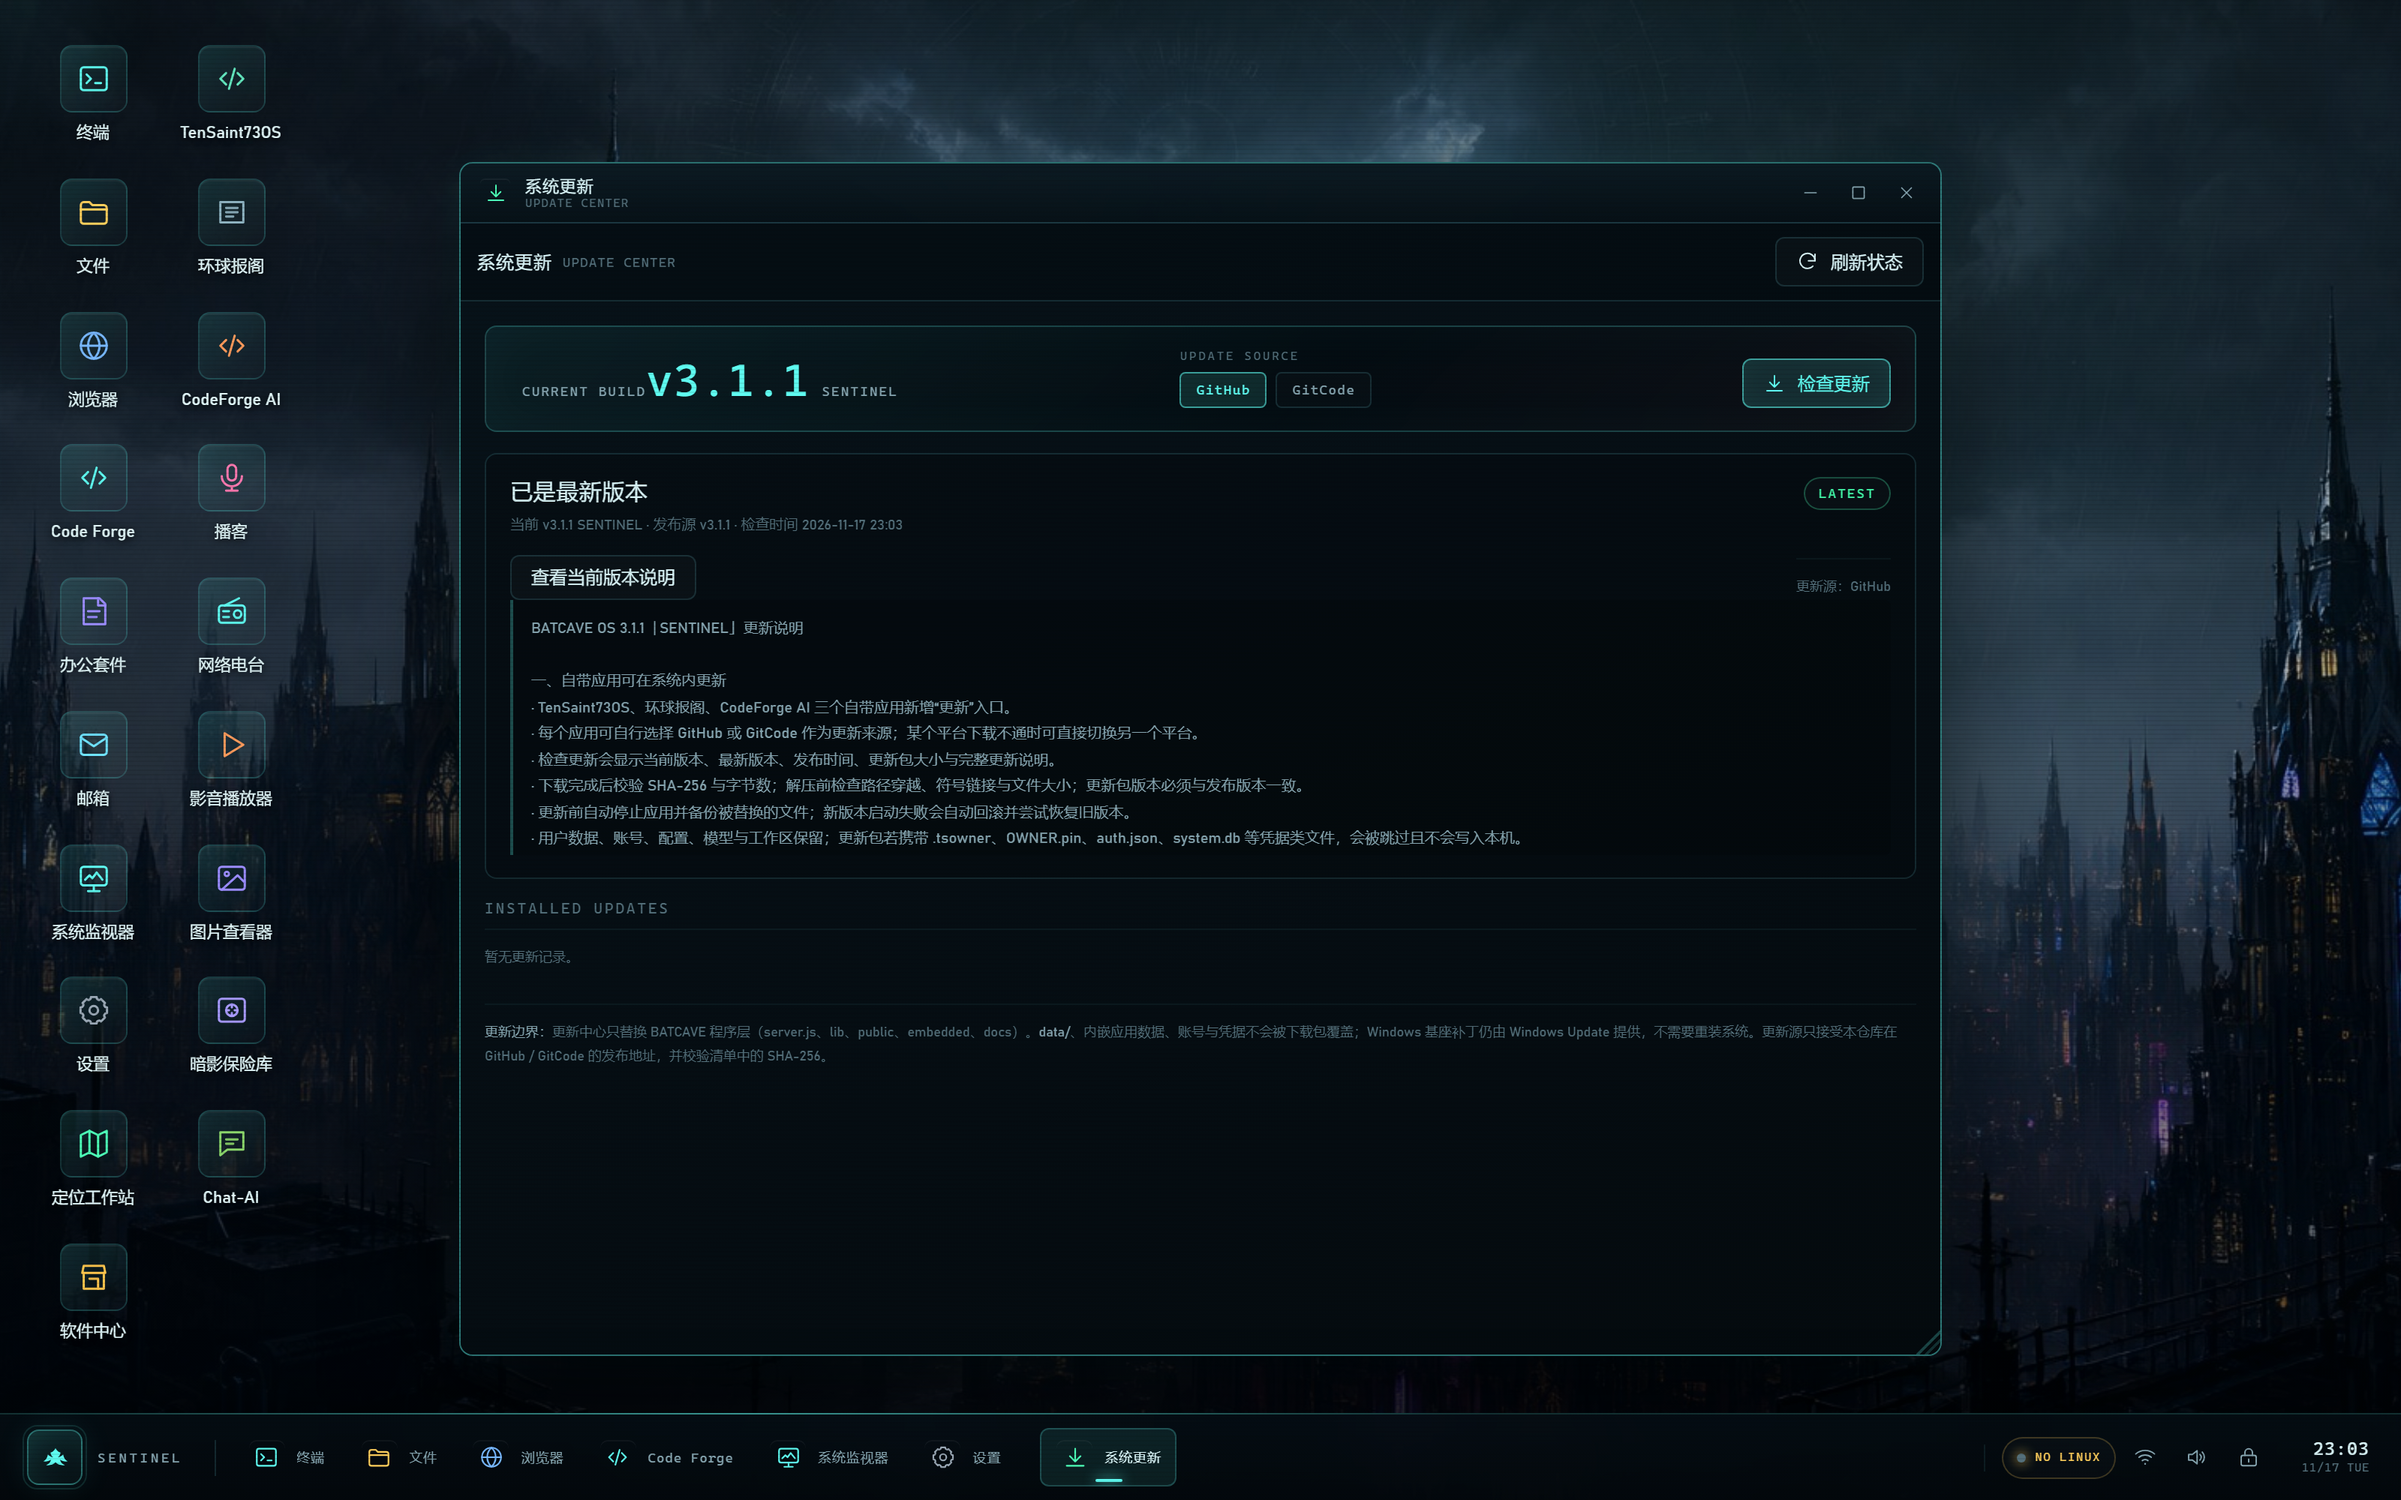
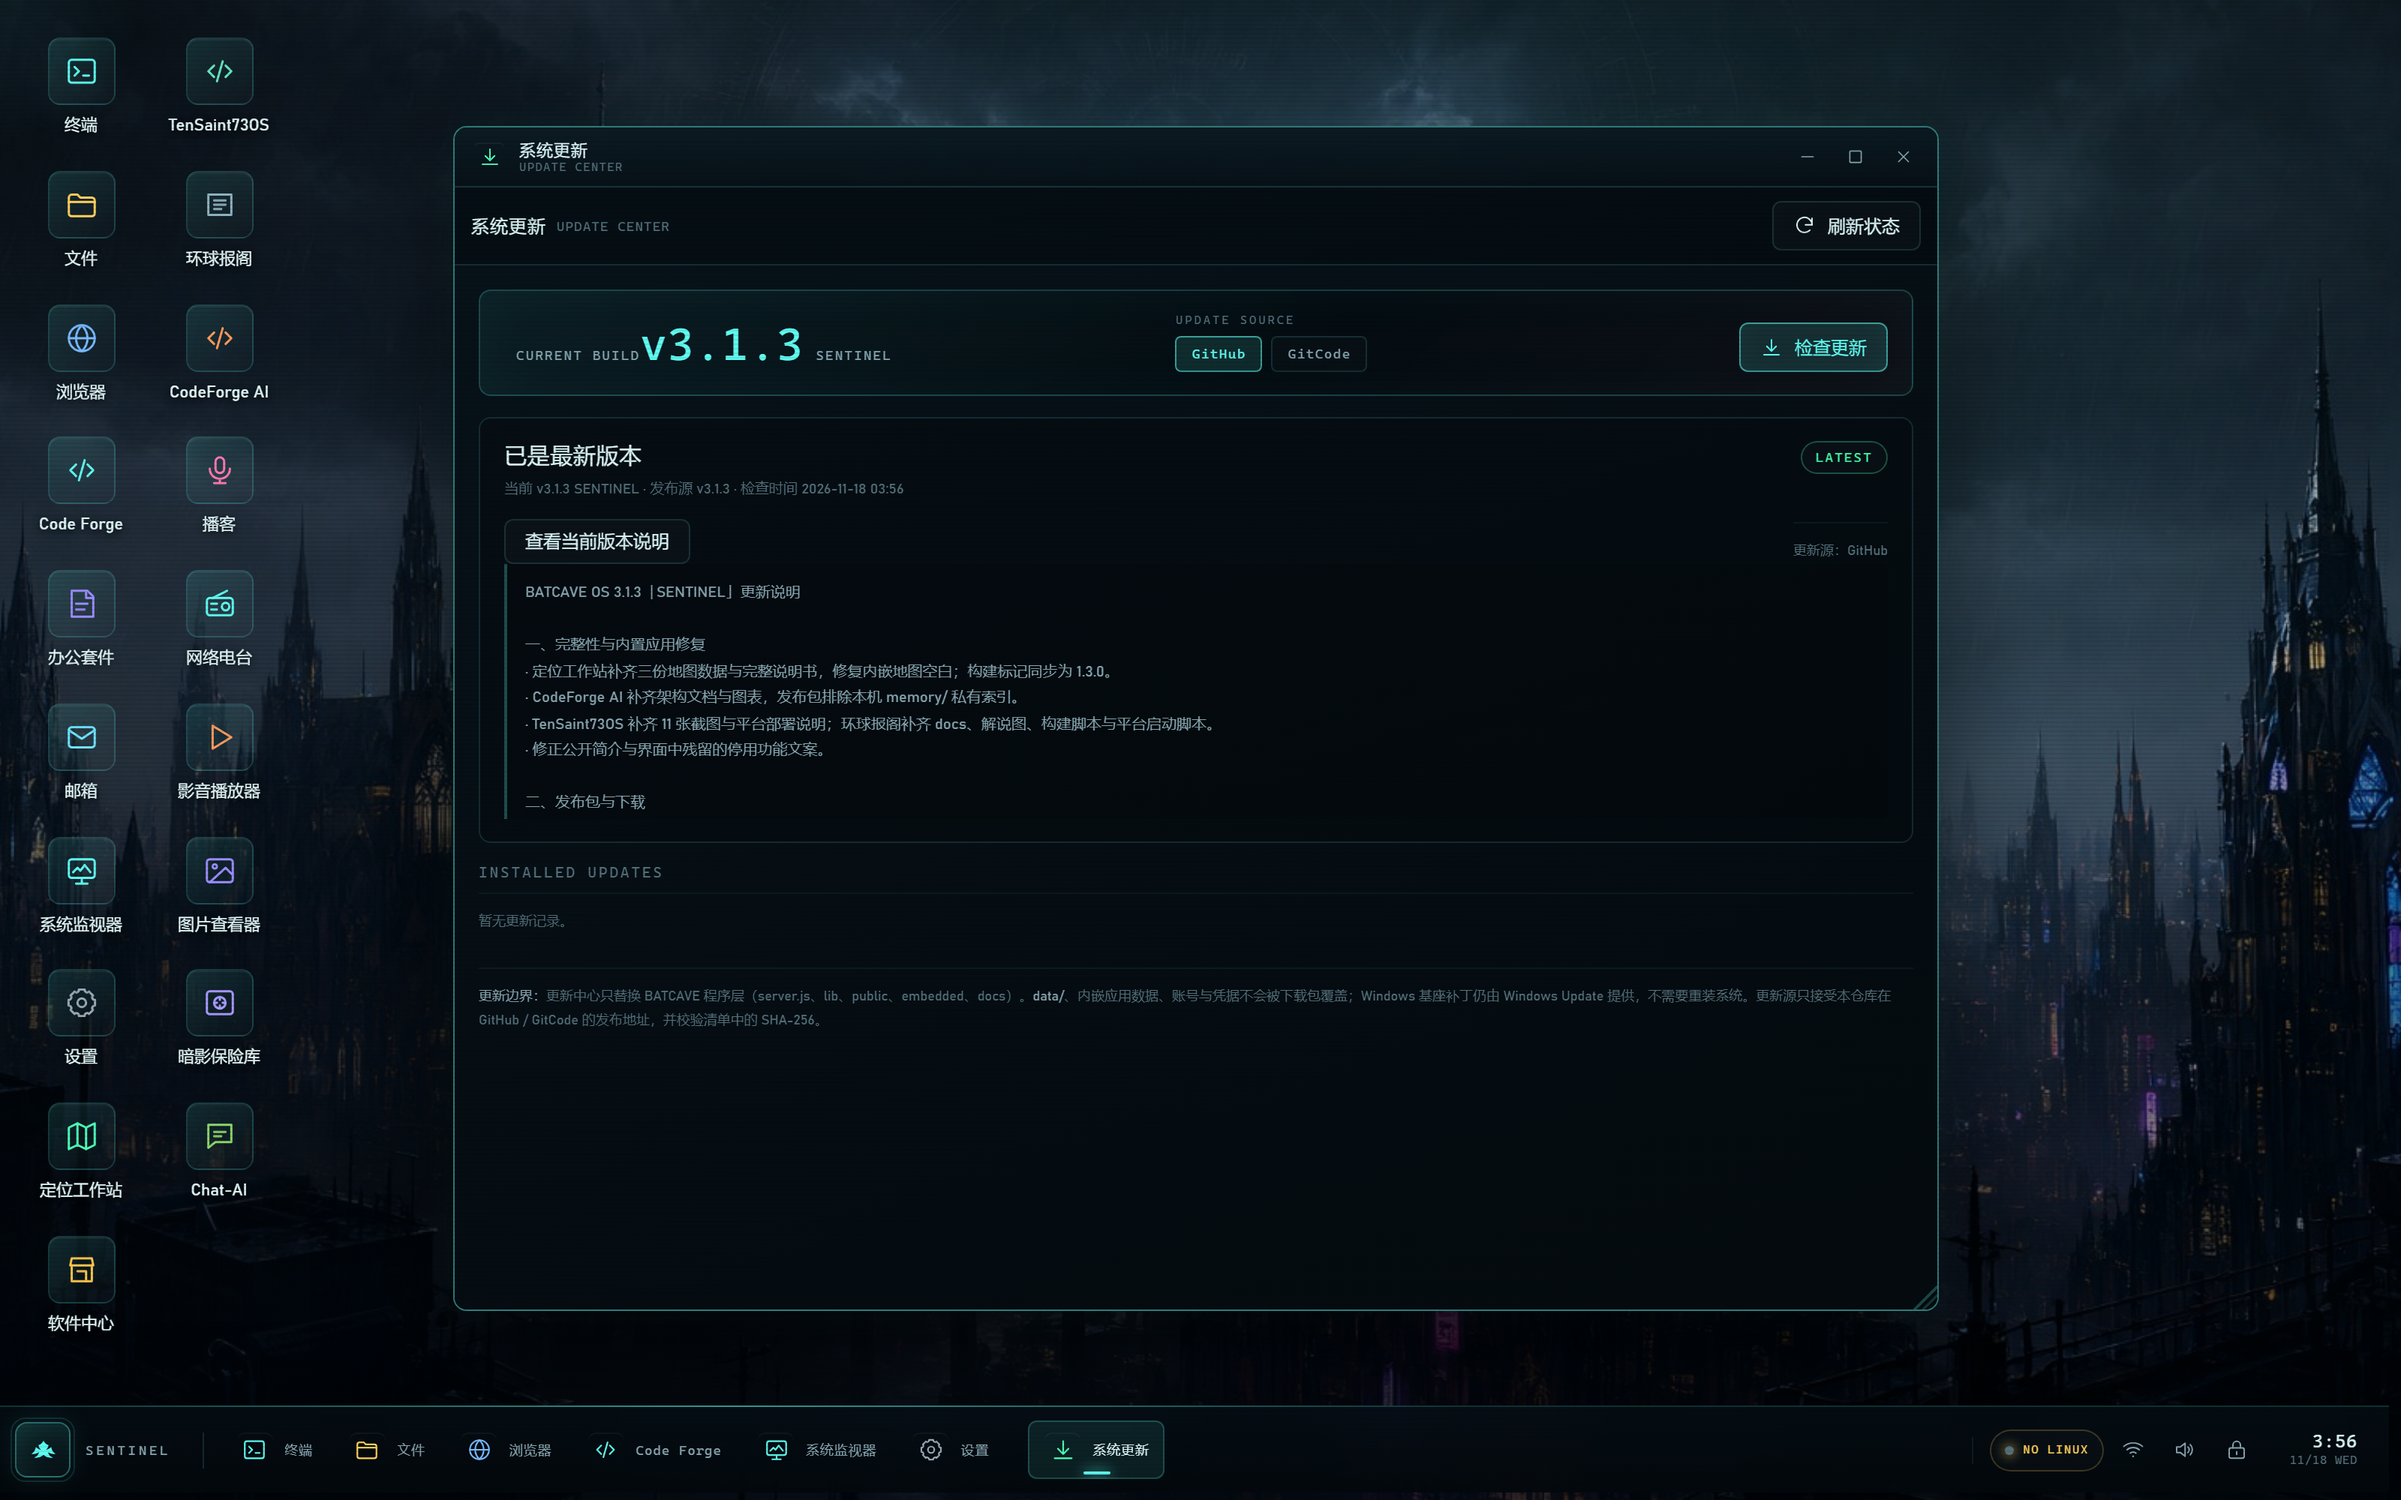
BATCAVE OS 3.1.3 · 截图与内嵌应用版本一致性修正
- README 终端与系统更新截图重拍为 3.1.3
- 环球报阁更新说明图改为 1.3.0 当前状态，移除旧更新提示图
- 环球报阁状态接口版本号由 1.0.0 修正为 1.3.0
- 更新清单 latest.json 指向重建后的发布包与 SHA-256

diff --git a/embedded/global-reading-room/MANUAL.html b/embedded/global-reading-room/MANUAL.html
@@ -343,8 +343,8 @@ sh start-ish.sh</code></pre>
   <div class="note"><b>Update notices.</b> Every launch asks the local server to read the latest public release tag from GitHub (<code>/api/update</code>, cached for 30 minutes). If a newer version exists, a card appears in the bottom-right corner with links to the GitHub release and the GitCode mirror. The request carries no articles, feeds, settings or API keys; if GitHub is unreachable, the card is simply absent. Dismissing it remembers that tag in this browser only. Replacing the program files does not touch <code>data/</code>.
   </div>
   <figure class="plate">
-    <img src="docs/images/guide-11-update-notice.png" alt="New-version notice card over the reading room, with GitHub and GitCode download links">
-    <figcaption><span>Field guide 11 · an older copy sees the newest release</span><span>No article or settings data leaves the machine</span></figcaption>
+    <img src="docs/images/guide-11-update-check.png" alt="The running build v1.3.0 after checking the newest public release; no update card because it is the latest">
+    <figcaption><span>Field guide 11 · v1.3.0 checks the newest public release</span><span>No article or settings data leaves the machine</span></figcaption>
   </figure>
 </section>
 

diff --git a/embedded/global-reading-room/lib/store.js b/embedded/global-reading-room/lib/store.js
@@ -7,6 +7,7 @@ const { CATALOG, CATEGORIES, REGIONS } = require('./sources');
 const {
   hashId, nowIso, normalizeUrl, stripTracking, feedKey, truncate, safeJsonParse,
 } = require('./util');
+const APP_VERSION = require('../package.json').version;
 
 const CATEGORY_IDS = new Set(CATEGORIES.map((item) => item.id));
 const REGION_IDS = new Set(REGIONS);
@@ -589,7 +590,7 @@ class Store {
   state() {
     const counts = this.counts();
     return {
-      app: { name: '环球报阁', version: '1.0.0' },
+      app: { name: '环球报阁', version: APP_VERSION },
       settings: this.getSettings(),
       meta: this.db.meta,
       notice: this.notice,

diff --git a/embedded/global-reading-room/README.md b/embedded/global-reading-room/README.md
@@ -95,10 +95,10 @@ Eleven full-resolution English plates explain the interface, the architecture, t
 ### 10 · Zoom, pan, inspect
 ![Lightbox](docs/images/guide-10-lightbox.png)
 
-### 11 · New-version notice
-![Update notice](docs/images/guide-11-update-notice.png)
+### 11 · Version check and update notice
+![Running build v1.3.0 checking the newest public release](docs/images/guide-11-update-check.png)
 
-An older copy at launch: the card names the newest release — version number included — and links both mirrors. Nothing is uploaded; the check reads one public release record.
+At launch the app reads the newest public release tag — v1.3.0 for this build — and caches it for 30 minutes. A card with GitHub and GitCode links appears only when a newer tag exists; when the running build is the latest, no card is shown. Nothing is uploaded; the check reads one public release record.
 
 The complete operating manual — installation, every setting, provider setup, OCR, captions, backups, API, troubleshooting and the legal boundary — is in **[MANUAL.html](MANUAL.html)**.
 

diff --git a/CHANGELOG.md b/CHANGELOG.md
@@ -11,6 +11,7 @@
 - TenSaint73OS 补齐 11 张截图与平台部署说明；环球报阁补齐 docs、解说图、构建脚本与平台启动脚本，应用内说明可直接查看。
 - 修正公开简介与界面中残留的停用功能文案，统一为当前能力说明。
 - 发布包补入 `iso/winbase/README-FIRST.txt`，同时继续排除 `data/`、`iso/`、`test/`、`tools/`、`node_modules/`、`memory/`。
+- README 的终端与系统更新截图重拍为 3.1.3；环球报阁更新说明图改为 1.3.0 当前版本，状态接口版本号由 1.0.0 修正为 1.3.0。
 
 ### 变更
 
